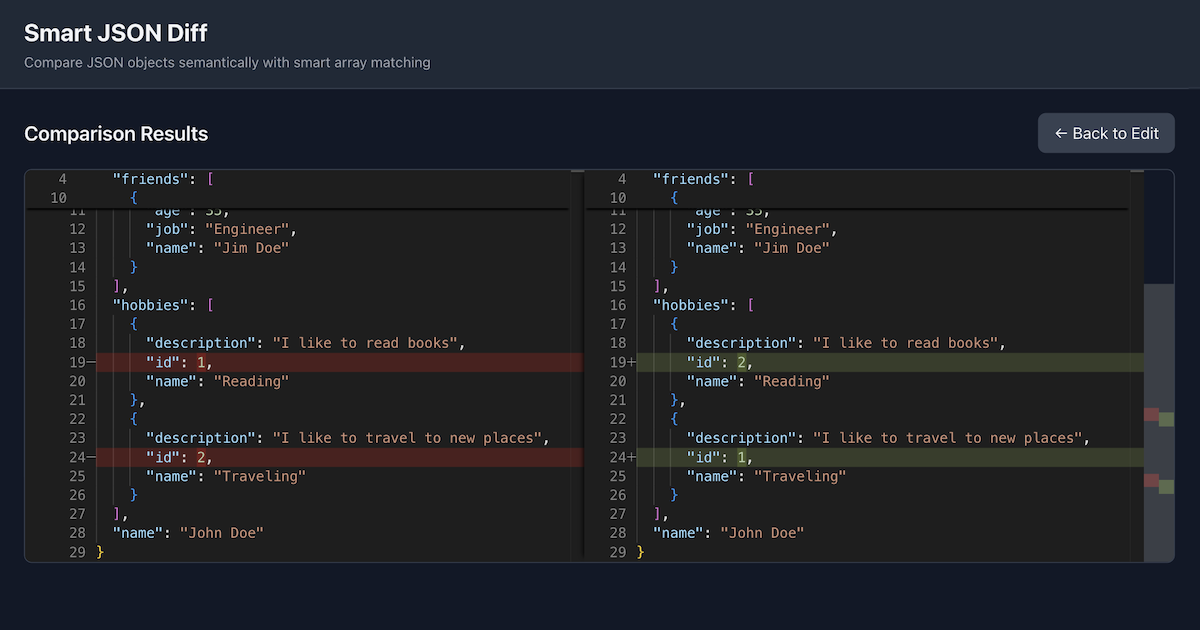
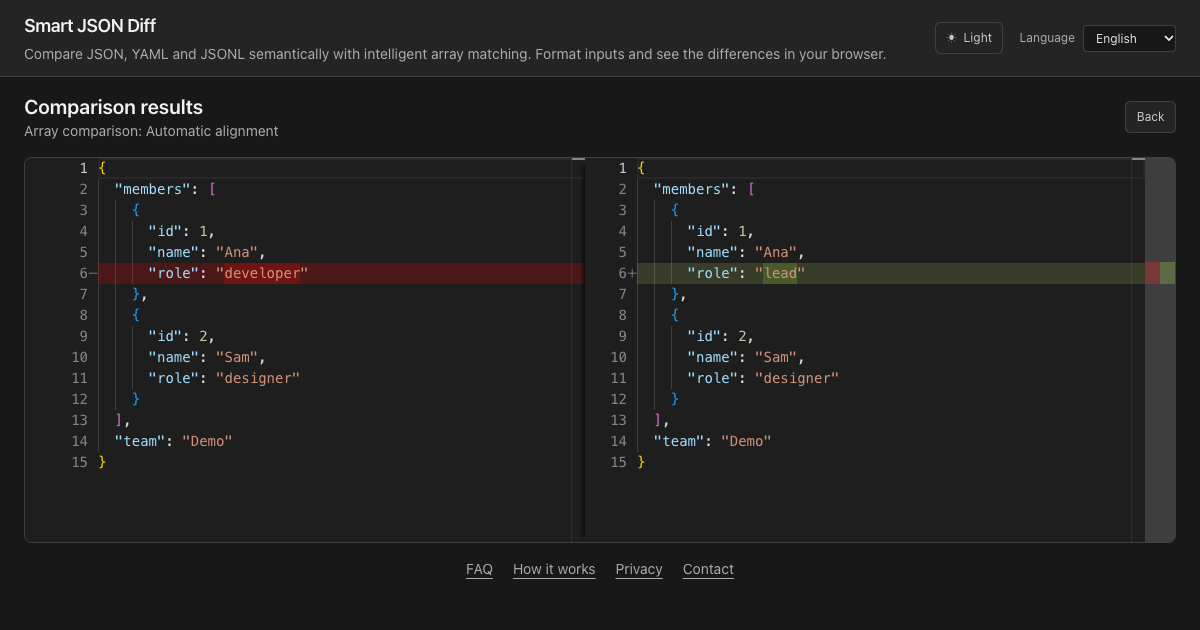
Localize share previews and web app manifests (#80)

diff --git a/scripts/build-pages.js b/scripts/build-pages.js
@@ -23,12 +23,14 @@ for (const locale of site.locales) {
   const { subtitle } = JSON.parse(fs.readFileSync(`src/locales/${locale}.json`)).header;
   if (!c?.title || !c.description || !subtitle) throw new Error(`Missing home copy: ${locale}`);
   const alternates = site.locales.map(l => `<link rel="alternate" hreflang="${l}" href="${site.origin}${homePath(l)}">`).join('');
+  const image = site.origin + '/' + site.assets[locale].image;
   const meta = `\n<title>${esc(c.title)}</title><meta name="title" content="${esc(c.title)}"><meta name="description" content="${esc(c.description)}"><meta name="robots" content="${base === '/' ? 'index, follow' : 'noindex, nofollow'}"><meta name="inLanguage" content="${locale}"><link rel="canonical" href="${url}">${alternates}<link rel="alternate" hreflang="x-default" href="${site.origin}/">
-<meta property="og:type" content="website"><meta property="og:site_name" content="Smart JSON Diff"><meta property="og:title" content="${esc(c.title)}"><meta property="og:description" content="${esc(c.description)}"><meta property="og:url" content="${url}"><meta property="og:locale" content="${site.ogLocales[locale]}"><meta property="og:image" content="${site.origin}/og-image-1200x630.png">
-<meta name="twitter:card" content="summary_large_image"><meta name="twitter:title" content="${esc(c.title)}"><meta name="twitter:description" content="${esc(c.description)}"><meta name="twitter:url" content="${url}"><meta name="twitter:image" content="${site.origin}/og-image-1200x630.png">
+<meta property="og:type" content="website"><meta property="og:site_name" content="Smart JSON Diff"><meta property="og:title" content="${esc(c.title)}"><meta property="og:description" content="${esc(c.description)}"><meta property="og:url" content="${url}"><meta property="og:locale" content="${site.ogLocales[locale]}"><meta property="og:image" content="${image}">
+<meta name="twitter:card" content="summary_large_image"><meta name="twitter:title" content="${esc(c.title)}"><meta name="twitter:description" content="${esc(c.description)}"><meta name="twitter:url" content="${url}"><meta name="twitter:image" content="${image}">
+<link rel="manifest" href="${base}${site.assets[locale].manifest}">
 <script id="application-schema" type="application/ld+json">${JSON.stringify(schema(locale))}</script><script type="application/ld+json">${JSON.stringify({ '@context':'https://schema.org', '@type':'Organization', name:'Smart JSON Diff', url:site.origin+'/', logo:site.origin+'/android-chrome-512x512.png' })}</script><script type="application/ld+json">${JSON.stringify({ '@context':'https://schema.org', '@type':'WebSite', name:'Smart JSON Diff', url:site.origin+'/' })}</script>\n`;
   const nav = labels[locale];
-  const shell = `<header class="site-header"><div class="site-header-inner"><div><h1 class="site-title">Smart JSON Diff</h1><p class="site-subtitle">${esc(subtitle)}</p></div></div></header><main style="min-height:55vh;padding:24px"></main><footer style="padding:24px"><nav aria-label="${esc(nav.nav)}">${site.pages.map(p => `<a href="${base}${locale}/${p}/">${esc(nav[p])}</a> `).join('')}</nav></footer>`;
+  const shell = `<header class="site-header"><div class="site-header-inner"><h1 class="site-title">Smart JSON Diff</h1><p class="site-subtitle">${esc(subtitle)}</p></div></header><main style="min-height:55vh;padding:24px"></main><footer style="padding:24px"><nav aria-label="${esc(nav.nav)}">${site.pages.map(p => `<a href="${base}${locale}/${p}/">${esc(nav[p])}</a> `).join('')}</nav></footer>`;
   let html = replaceMarked(template, 'SEO', meta).replace('<html lang="en">', `<html lang="${locale}">`);
   html = replaceMarked(html, 'SHELL', shell);
   write(locale === 'en' ? 'index.html' : `${locale}/index.html`, html);
@@ -57,6 +59,12 @@ for (const [file, source] of Object.entries(documents)) {
   const expected = site.origin + (page ? `/${target}/${page}/` : homePath(target));
   if (doc.querySelector(`link[rel="alternate"][hreflang="${language}"]`)?.getAttribute('href') !== expected) throw new Error(`Invalid alternate ${language}: ${file}`);
  }
+ const { image, manifest } = site.assets[locale];
+ const socialImage = site.origin + '/' + image;
+ if (!fs.existsSync(path.join(dist, image)) ||
+     doc.querySelector('meta[property="og:image"]')?.content !== socialImage ||
+     doc.querySelector('meta[name="twitter:image"]')?.content !== socialImage) throw new Error(`Invalid social image: ${file}`);
+ if (!page && doc.querySelector('link[rel="manifest"]')?.getAttribute('href') !== base + manifest) throw new Error(`Invalid manifest link: ${file}`);
  for (const node of doc.querySelectorAll('a[href], script[src], link[href]')) {
   const reference = node.getAttribute('href') || node.getAttribute('src');
   if (!reference?.startsWith('/')) continue;

diff --git a/scripts/support-pages.js b/scripts/support-pages.js
@@ -84,6 +84,7 @@ export function supportPages(base = '/') {
       href="${origin}/${language}/${page}/">`).join('');
     const description = page === 'faq' ? faq[locale][0].a : page === 'how-it-works' ? c.how[0][1]
       : page === 'privacy' ? c.privacyText[0] : c.contactText;
+    const image = origin + '/' + site.assets[locale].image;
     const title = escapeHtml(c[page]);
     result[`${locale}/${page}/index.html`] = `<!doctype html>
 <html lang="${locale}"><head>
@@ -92,8 +93,8 @@ export function supportPages(base = '/') {
   <title>${title} — Smart JSON Diff</title><meta name="description" content="${escapeHtml(description)}">
   <link rel="canonical" href="${origin}/${locale}/${page}/">
   ${prefix !== '/' ? '<meta name="robots" content="noindex, nofollow">' : ''}${alternatives}<link rel="alternate" hreflang="x-default" href="${origin}/en/${page}/">
-  <meta property="og:type" content="website"><meta property="og:locale" content="${site.ogLocales[locale]}"><meta property="og:title" content="${title} — Smart JSON Diff"><meta property="og:description" content="${escapeHtml(description)}"><meta property="og:url" content="${origin}/${locale}/${page}/"><meta property="og:image" content="${origin}/og-image-1200x630.png">
-  <meta name="twitter:card" content="summary_large_image"><meta name="twitter:title" content="${title} — Smart JSON Diff"><meta name="twitter:description" content="${escapeHtml(description)}"><meta name="twitter:url" content="${origin}/${locale}/${page}/"><meta name="twitter:image" content="${origin}/og-image-1200x630.png">
+  <meta property="og:type" content="website"><meta property="og:locale" content="${site.ogLocales[locale]}"><meta property="og:title" content="${title} — Smart JSON Diff"><meta property="og:description" content="${escapeHtml(description)}"><meta property="og:url" content="${origin}/${locale}/${page}/"><meta property="og:image" content="${image}">
+  <meta name="twitter:card" content="summary_large_image"><meta name="twitter:title" content="${title} — Smart JSON Diff"><meta name="twitter:description" content="${escapeHtml(description)}"><meta name="twitter:url" content="${origin}/${locale}/${page}/"><meta name="twitter:image" content="${image}">
   <meta name="theme-color" content="#181818"><style>${sharedStyles}${styles}</style>
   <script>
     (function () {
@@ -108,8 +109,8 @@ export function supportPages(base = '/') {
   </script>
 </head><body>
   <header class="site-header"><div class="site-header-inner">
-    <div><a class="site-title" href="${prefix}${locale === 'en' ? '' : `${locale}/`}">Smart JSON Diff</a>
-      <p class="site-subtitle">${escapeHtml(translations[locale].header.subtitle)}</p></div>
+    <a class="site-title" href="${prefix}${locale === 'en' ? '' : `${locale}/`}">Smart JSON Diff</a>
+      <p class="site-subtitle">${escapeHtml(translations[locale].header.subtitle)}</p>
     <nav class="site-header-actions" aria-label="${escapeHtml(translations[locale].header.primaryNav)}">
       <a class="site-home" href="${prefix}${locale === 'en' ? '' : `${locale}/`}" aria-label="${escapeHtml(translations[locale].header.homeAria)}">← ${escapeHtml(translations[locale].header.home)}</a>
       <button type="button" id="theme-toggle" class="theme-toggle" hidden

diff --git a/src/shared.css b/src/shared.css
@@ -31,10 +31,16 @@
 }
 
 .site-header { background: var(--surface-raised); border-bottom: 1px solid var(--surface-border); padding: .75rem 1rem; }
-.site-header-inner { max-width: 1536px; margin: auto; display: flex; flex-direction: column; gap: .75rem; }
-.site-title { margin: 0; color: var(--text-primary); font-size: 1.125rem; line-height: 1.75rem; font-weight: 600; letter-spacing: -.025em; text-decoration: none; }
-.site-subtitle { margin: .125rem 0 0; color: var(--text-muted); font-size: .75rem; line-height: 1rem; }
-.site-header-actions { display: flex; flex-direction: row; flex-wrap: wrap; align-items: center; gap: .5rem; }
+.site-header-inner {
+  max-width: 1536px;
+  margin: auto;
+  display: grid;
+  grid-template-columns: minmax(0, 1fr);
+  gap: .25rem 1rem;
+}
+.site-title { justify-self: start; margin: 0; color: var(--text-primary); font-size: 1.125rem; line-height: 1.75rem; font-weight: 600; letter-spacing: -.025em; text-decoration: none; }
+.site-subtitle { margin: 0; color: var(--text-muted); font-size: .75rem; line-height: 1rem; }
+.site-header-actions { display: flex; flex-wrap: wrap; align-items: center; gap: .5rem; margin-top: .25rem; }
 .site-home { color: var(--text-muted); font-size: .875rem; text-decoration: none; }
 .site-home:hover { color: var(--text-strong); }
 .theme-toggle { display: inline-flex; align-items: center; justify-content: center; gap: .4rem;
@@ -48,5 +54,9 @@
 .site-language select { background: var(--surface-base); border: 1px solid var(--surface-border); color: var(--text-strong);
   border-radius: .25rem; padding: .25rem .5rem; font: inherit; }
 .site-language select:focus-visible { outline: 1px solid #3b82f6; outline-offset: 1px; }
-@media (min-width: 640px) { .site-header { padding-left: 1.5rem; padding-right: 1.5rem; } .site-subtitle { font-size: .875rem; line-height: 1.25rem; } }
-@media (min-width: 768px) { .site-header-inner { flex-direction: row; align-items: center; justify-content: space-between; } .site-header-actions { flex-direction: row; gap: 1rem; } }
+@media (min-width: 640px) {
+  .site-header { padding-inline: 1.5rem; }
+  .site-header-inner { grid-template-columns: minmax(0, 1fr) max-content; align-items: center; }
+  .site-subtitle { grid-column: 1; grid-row: 2; font-size: .875rem; line-height: 1.25rem; }
+  .site-header-actions { grid-column: 2; grid-row: 1 / span 2; gap: 1rem; margin-top: 0; }
+}

diff --git a/scripts/site-manifests.ts b/scripts/site-manifests.ts
@@ -1,0 +1,47 @@
+import type { Plugin } from 'vite';
+import site from '../src/content/site.json' with { type: 'json' };
+
+export function siteManifestsPlugin(): Plugin {
+  let base = '/';
+  const manifests = () => Object.fromEntries(Object.entries(site.assets).map(([key, assets]) => {
+    const locale = key as keyof typeof site.assets;
+    return [assets.manifest, JSON.stringify({
+      id: base,
+      lang: locale,
+      name: 'Smart JSON Diff',
+      short_name: 'Smart JSON Diff',
+      description: site.home[locale].description,
+      start_url: locale === 'en' ? './' : `./${locale}/`,
+      scope: './',
+      display: 'standalone',
+      theme_color: '#ffffff',
+      background_color: '#ffffff',
+      icons: [192, 512].map(size => ({
+        src: `android-chrome-${size}x${size}.png`,
+        sizes: `${size}x${size}`,
+        type: 'image/png',
+      })),
+    }, null, 2)];
+  }));
+
+  return {
+    name: 'site-manifests',
+    configResolved(config) { base = config.base; },
+    configureServer(server) {
+      const files = manifests();
+      server.middlewares.use((req, res, next) => {
+        const pathname = req.url?.split('?')[0];
+        if (!pathname?.startsWith(base)) return next();
+        const filename = pathname.slice(base.length);
+        if (!Object.prototype.hasOwnProperty.call(files, filename)) return next();
+        res.setHeader('Content-Type', 'application/manifest+json; charset=utf-8');
+        res.end(files[filename]);
+      });
+    },
+    generateBundle() {
+      for (const [fileName, source] of Object.entries(manifests())) {
+        this.emitFile({ type: 'asset', fileName, source });
+      }
+    },
+  };
+}

diff --git a/src/site.ts b/src/site.ts
@@ -29,6 +29,8 @@ export function normalizeLegacyUrl(input: URL, base: string): URL {
 export function updateHead(locale: Locale) {
   const content = homeContent[locale];
   const url = `${SITE_ORIGIN}${homePath(locale)}`;
+  const { image, manifest } = site.assets[locale];
+  const imageUrl = SITE_ORIGIN + '/' + image;
   document.documentElement.lang = locale;
   document.title = content.title;
   for (const [selector, value] of [
@@ -37,7 +39,8 @@ export function updateHead(locale: Locale) {
     ['meta[property="og:description"]', content.description], ['meta[property="og:url"]', url],
     ['meta[property="og:locale"]', site.ogLocales[locale]], ['meta[name="twitter:title"]', content.title],
     ['meta[name="twitter:description"]', content.description], ['meta[name="twitter:url"]', url],
-    ['link[rel="canonical"]', url],
+    ['meta[property="og:image"]', imageUrl], ['meta[name="twitter:image"]', imageUrl],
+    ['link[rel="manifest"]', import.meta.env.BASE_URL + manifest], ['link[rel="canonical"]', url],
   ]) {
     const node = document.querySelector(selector);
     if (node) node.setAttribute(selector.startsWith('link') ? 'href' : 'content', value);

diff --git a/index.html b/index.html
@@ -7,12 +7,12 @@
     <!-- SEO:START -->
     <title>Compare JSON Online | Smart JSON Diff</title>
     <meta name="description" content="Compare JSON, YAML and JSONL semantically in your browser." />
+    <link rel="manifest" href="%BASE_URL%site.webmanifest" />
     <!-- SEO:END -->
     <link rel="icon" href="%BASE_URL%favicon.ico" />
     <link rel="icon" type="image/png" sizes="16x16" href="%BASE_URL%favicon-16x16.png" />
     <link rel="icon" type="image/png" sizes="32x32" href="%BASE_URL%favicon-32x32.png" />
     <link rel="apple-touch-icon" href="%BASE_URL%apple-touch-icon.png" />
-    <link rel="manifest" href="%BASE_URL%site.webmanifest" />
     <meta name="theme-color" content="#181818" />
     <meta name="referrer" content="strict-origin-when-cross-origin" />
   </head>

diff --git a/vite.config.ts b/vite.config.ts
@@ -1,6 +1,7 @@
 import { defineConfig } from 'vite'
 import path from 'node:path'
 import react from '@vitejs/plugin-react'
+import { siteManifestsPlugin } from './scripts/site-manifests.ts'
 import { supportPagesPlugin } from './scripts/support-pages.js'
 import monacoEditorPluginModule from 'vite-plugin-monaco-editor'
 const monacoEditorPlugin: any = (monacoEditorPluginModule as any)?.default || (monacoEditorPluginModule as any)
@@ -11,6 +12,7 @@ export default defineConfig({
   plugins: [
     react(),
     supportPagesPlugin(),
+    siteManifestsPlugin(),
     monacoEditorPlugin({
       languageWorkers: ['json'],
       customDistPath: (root: string, outDir: string) => path.resolve(root, outDir, 'monacoeditorwork'),

diff --git a/src/components/Header.tsx b/src/components/Header.tsx
@@ -37,12 +37,8 @@ export function Header({ showNav = true, homeLink = false }: HeaderProps) {
   return (
     <header className="site-header" role="banner">
       <div className="site-header-inner">
-        <div>
-          <h1 className="site-title">{t('app.title')}</h1>
-          <p className="site-subtitle">
-            {t('header.subtitle')}
-          </p>
-        </div>
+        <h1 className="site-title">{t('app.title')}</h1>
+        <p className="site-subtitle">{t('header.subtitle')}</p>
         {showNav ? (
           <nav aria-label={t('header.primaryNav')} className="site-header-actions">
             {isFaq && (
